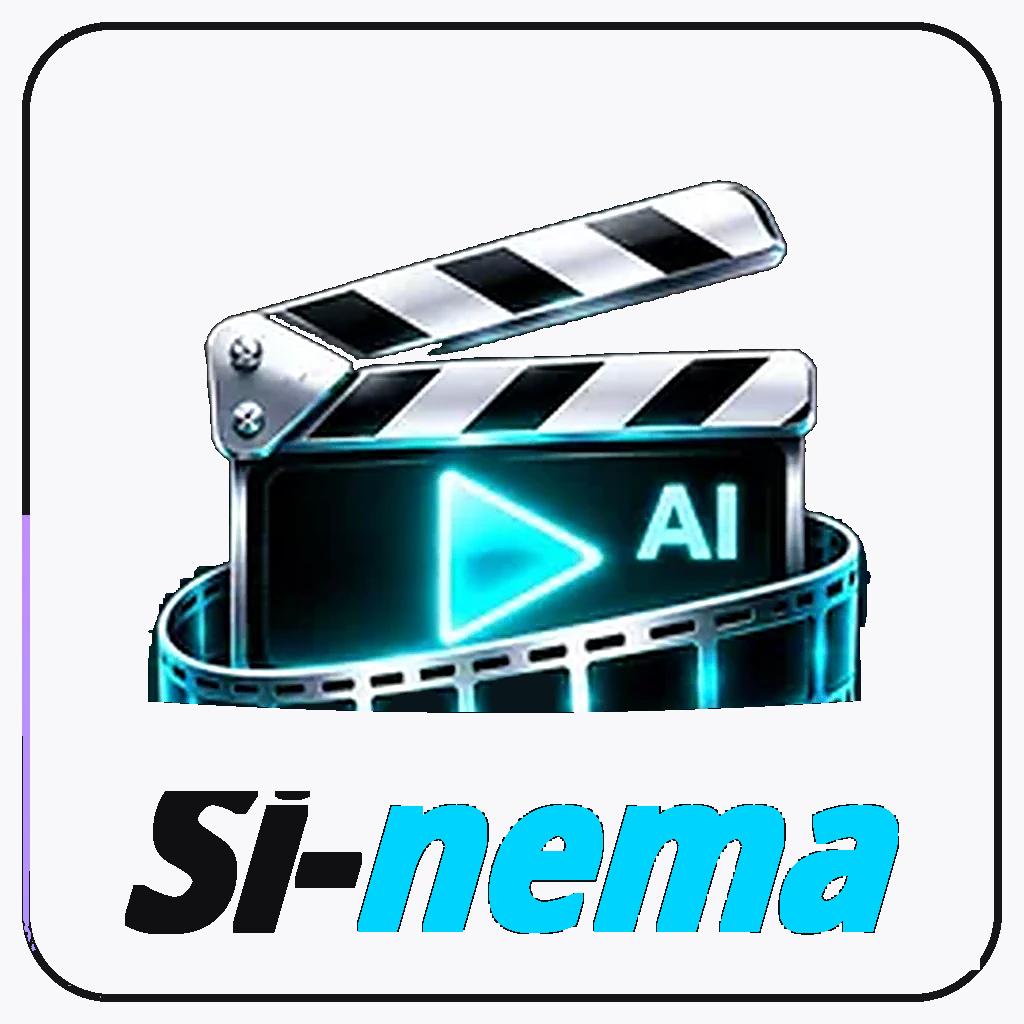
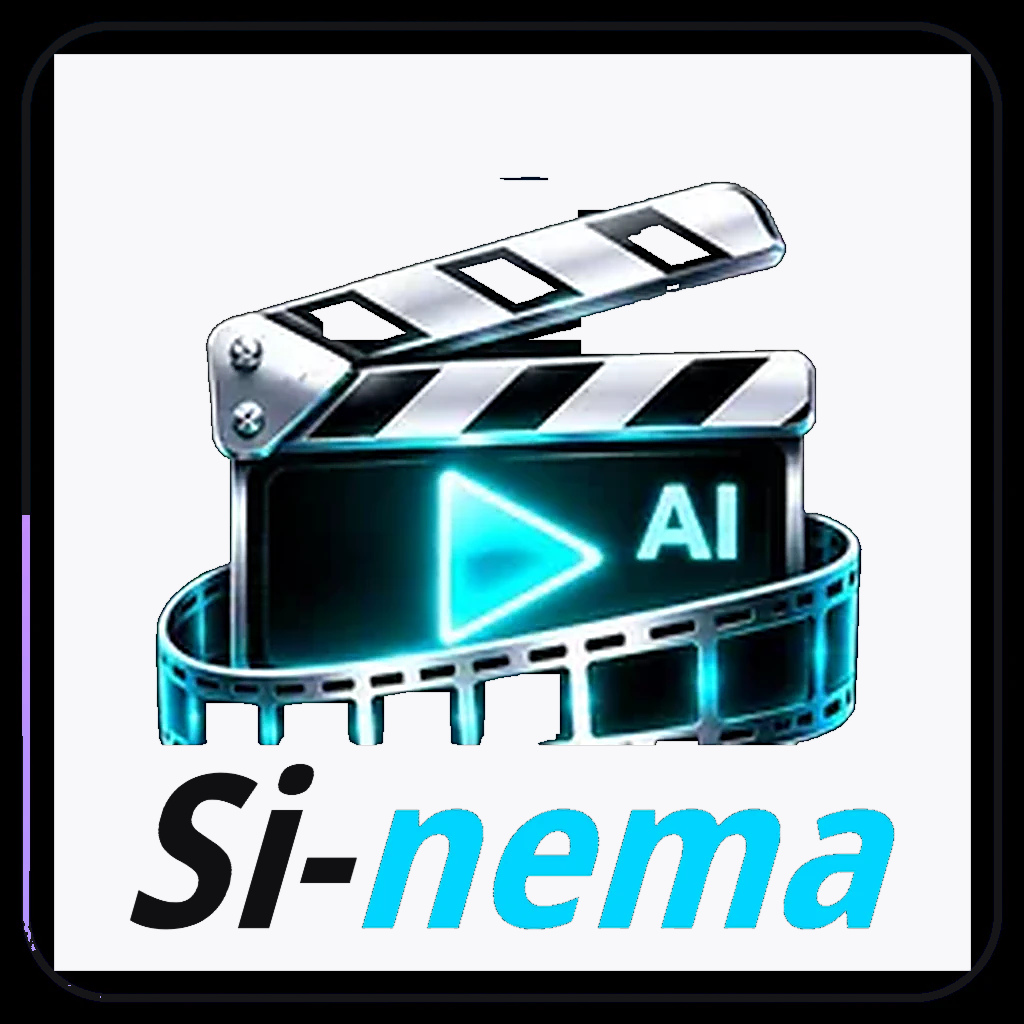
Re-render White/Black Si-nema from the official mark
Keep official clapper pixels on a white field and matte the official
Si- letters to ink so the italic S stays complete. Tiffany nema is
unchanged. Drop invert, dilation, and font redraw that chewed the S
and muddied play/AI/film.

diff --git a/icon-review-wb-tiffany-draft.html b/icon-review-wb-tiffany-draft.html
@@ -20,7 +20,7 @@
 </head>
 <body>
   <h1>White/Black draft — Tiffany on gl / nema</h1>
-  <p>Live Search lost Tiffany because White/Black inverted the whole tile (teal became grey/black). This draft keeps the FloqCAST / BOT DEE split: ink + Tiffany. Si-nema: complete italic <b>S</b> (solid fill) and a tightened filmstrip (hanging sprocket tongues clipped, interiors navy — no white bite).</p>
+  <p>White/Black Si-nema re-rendered from the official mark: clapper objects (play, AI, sticks, film) keep official pixels on a white field; <b>Si-</b> is the official letter matte in black; <b>nema</b> stays Tiffany. No invert, no chopped S.</p>
 
   <h2>Search row (White/Black)</h2>
   <div class="search-icon-row">
@@ -40,7 +40,7 @@
   <h2>Si-nema — live vs draft</h2>
   <div class="row">
     <div class="pair"><span>Live (soft invert)</span><img src="./images/review/sinema-whiteblack-before.jpg" alt="Si-nema White/Black before"/></div>
-    <div class="pair"><span>Draft (full S + tight film)</span><img src="./images/chrome/sinema-whiteblack.jpg" alt="Si-nema White/Black draft"/></div>
+    <div class="pair"><span>Draft (re-render)</span><img src="./images/chrome/sinema-whiteblack.jpg" alt="Si-nema White/Black draft"/></div>
   </div>
 
   <h2>Si-nema draft at share-sheet size</h2>

diff --git a/scripts/build-sinema-chrome-icons.py b/scripts/build-sinema-chrome-icons.py
@@ -18,7 +18,6 @@ ROOT = Path(__file__).resolve().parents[1]
 OUT = ROOT / "images/chrome"
 SOURCE = ROOT / "images/chrome/official/si-nema-blacktiffany.webp"
 S = 1024
-TIFFANY = np.array([0, 212, 254], dtype=np.float32)
 
 
 def load_official() -> np.ndarray:
@@ -84,13 +83,10 @@ def save_jpg(arr: np.ndarray, path: Path) -> None:
     print(f"  wrote {path.name}")
 
 
-def morph(mask: np.ndarray, *, open_k: int = 0, close_k: int = 0) -> np.ndarray:
-    img = Image.fromarray((mask.astype(np.uint8) * 255), "L")
-    if open_k:
-        img = img.filter(ImageFilter.MinFilter(open_k)).filter(ImageFilter.MaxFilter(open_k))
-    if close_k:
-        img = img.filter(ImageFilter.MaxFilter(close_k)).filter(ImageFilter.MinFilter(close_k))
-    return np.array(img) > 127
+INK = np.array([16, 16, 18], dtype=np.float32)
+FIELD_RGB = np.array([248, 248, 250], dtype=np.float32)
+# Official wordmark lives below the film wrap (Si- top ≈ y 764).
+TYPE_Y = 756
 
 
 def dilate(mask: np.ndarray, k: int = 5) -> np.ndarray:
@@ -103,21 +99,24 @@ def dilate(mask: np.ndarray, k: int = 5) -> np.ndarray:
     )
 
 
-def connected_border_field(black: np.ndarray) -> np.ndarray:
-    """Outer black around the clapper — never seed inside the hanging filmstrip."""
+def morph_close(mask: np.ndarray, k: int) -> np.ndarray:
+    """Seal sprocket gaps without fattening the outer clapper silhouette."""
+    k = max(3, k | 1)
+    im = Image.fromarray((mask.astype(np.uint8) * 255), "L")
+    im = im.filter(ImageFilter.MaxFilter(k)).filter(ImageFilter.MinFilter(k))
+    return np.array(im) > 127
+
+
+def flood_outer_field(wall: np.ndarray) -> np.ndarray:
+    """Flood the white field from inside the rim. `wall` is the sealed clapper."""
     canvas = np.zeros((S, S, 3), dtype=np.uint8)
-    canvas[black] = (255, 255, 255)
+    canvas[~wall] = (255, 255, 255)
     img = Image.fromarray(canvas, "RGB")
     seeds = []
-    # Above the clapper.
-    for x in range(80, S - 80, 16):
-        seeds.append((x, 88))
-        seeds.append((x, 758))  # gap between filmstrip and wordmark
-        seeds.append((x, 980))
-    # Sides — stop above the filmstrip (film starts ~y 600).
-    for y in range(88, 560, 16):
-        seeds.append((80, y))
-        seeds.append((S - 80, y))
+    for x in range(64, S - 64, 8):
+        seeds.extend(((x, 64), (x, 748)))
+    for y in range(64, 750, 8):
+        seeds.extend(((64, y), (S - 64, y)))
     for pt in seeds:
         if img.getpixel(pt)[0] > 200:
             ImageDraw.floodfill(img, pt, (255, 0, 0), thresh=8)
@@ -125,127 +124,76 @@ def connected_border_field(black: np.ndarray) -> np.ndarray:
     return (out[..., 0] > 200) & (out[..., 1] < 40)
 
 
-def grow_field_into_glow(
-    field: np.ndarray, lum: np.ndarray, protect: np.ndarray
-) -> np.ndarray:
-    """Eat only the soft halo. Do not nibble film rails or letter ink."""
-    grown = field.copy()
-    for _ in range(4):
-        dil = np.array(
-            Image.fromarray((grown.astype(np.uint8) * 255), "L").filter(ImageFilter.MaxFilter(3))
-        ) > 127
-        extra = dil & ~grown & ~protect & (lum < 36)
-        if not extra.any():
-            break
-        grown |= extra
-    return grown
-
-
-def film_bottom_cut(xx: np.ndarray) -> np.ndarray:
-    """Clip dangling sprocket cells; slightly higher at the far left/right."""
-    t = np.clip(np.abs((xx - 500.0) / 360.0), 0.0, 1.0)
-    return 712.0 * (1.0 - t * t) + 700.0 * (t * t)
-
-
-def tighten_hanging_film(clapper: np.ndarray) -> tuple[np.ndarray, np.ndarray]:
-    """Clip tongues; fill punched interiors in the bottom sprocket band only."""
-    yy = np.arange(S, dtype=np.float32)[:, None]
-    xx = np.arange(S, dtype=np.float32)[None, :]
-    y_cut = film_bottom_cut(xx)
-    film_band = (yy >= 640) & (yy < 790)
-    kept = np.where(film_band, clapper & (yy <= y_cut), clapper)
-    holes = np.zeros_like(clapper)
-    for x in range(110, 930):
-        if not kept[640:760, x].any():
-            continue
-        yc = int(round(float(y_cut[0, x])))
-        band = slice(yc - 38, yc + 1)
-        holes[band, x] = ~kept[band, x]
-        kept[band, x] = True
-    return kept, holes
-
-
-def keep_connected_to(mask: np.ndarray, seed: tuple[int, int]) -> np.ndarray:
-    """Drop isolated glow islands; keep the clapper + filmstrip."""
-    canvas = np.zeros((S, S, 3), dtype=np.uint8)
-    canvas[mask] = (255, 255, 255)
-    img = Image.fromarray(canvas, "RGB")
-    if img.getpixel(seed)[0] < 200:
-        return mask
-    ImageDraw.floodfill(img, seed, (255, 0, 0), thresh=8)
-    out = np.array(img)
-    return (out[..., 0] > 200) & (out[..., 1] < 40)
-
-
-def paint_solid_letters(
-    out: np.ndarray,
-    src: np.ndarray,
-    word: np.ndarray,
-    field_rgb: np.ndarray,
-    ink: np.ndarray,
-) -> np.ndarray:
-    """Solid **Si-** ink + Tiffany **nema**. Dilate cores so Search-size S keeps its bowl."""
-    lum = src.max(axis=-1)
-    cyan = is_cyan(src)
-    white_core = word & (lum > 80) & ~cyan
-    cyan_core = word & cyan
-    # 11×11 dilate (~5 px) keeps the italic S bowl at Search / share-sheet size.
-    si = dilate(white_core, 11) & word
-    nema = dilate(cyan_core, 9) & word
-    si &= ~nema
-    out[si] = ink
-    out[nema] = TIFFANY
-    return out
-
-
 def build_whiteblack(src: np.ndarray, rim_src: Path | None = None) -> np.ndarray:
-    """White field, black **Si-**, Tiffany **nema**, sharp clapper (no glow halo)."""
-    field_rgb = np.array([248, 248, 250], dtype=np.float32)
-    ink = np.array([16, 16, 18], dtype=np.float32)
+    """White/Black Si-nema from the official mark — not an invert, not a font redraw.
+
+    Clapper (play, AI, sticks, screws, film) stays official RGB on a white
+    field. **Si-** is the official letter matte, recolored to ink; **nema**
+    keeps official Tiffany. Dilating/redrawing letters is what chopped the S.
+    """
+    del rim_src
     yy = np.arange(S)[:, None]
     xx = np.arange(S)[None, :]
     rim = (yy < 54) | (yy > S - 54) | (xx < 54) | (xx > S - 54)
-    word = (yy > 790) & (yy < S - 54) & (xx > 70) & (xx < 980)
-    film = (yy >= 560) & (yy < 790) & (xx > 90) & (xx < 960)
-
     lum = src.max(axis=-1)
-    black = is_near_black(src, 34)
-    field = connected_border_field(black)
-    # Never grow into the filmstrip — that ate the hanging bottom rail.
-    field = grow_field_into_glow(field, lum, word | film)
-    clapper = ~field & (yy < 790) & ~rim
-    clapper = morph(clapper, open_k=0, close_k=3)
-    clapper = keep_connected_to(clapper, (512, 470))
-    # Re-attach hanging film pixels the flood may still have dropped.
-    # Closed silhouette so sprocket interiors stay official-dark, not punched white.
+    ch = chroma(src)
     cyan = is_cyan(src)
-    film_sil = film & ~rim & ((lum > 32) | cyan)
-    film_sil = morph(film_sil, open_k=0, close_k=11)
-    clapper |= film_sil
-    clapper, holes = tighten_hanging_film(clapper)
+    graphic = np.zeros((S, S), dtype=bool)
+    graphic[:TYPE_Y, :] = True
 
-    out = np.broadcast_to(field_rgb, src.shape).copy()
-    sharp = np.array(
-        Image.fromarray(np.clip(src, 0, 255).astype(np.uint8), "RGB").filter(
-            ImageFilter.UnsharpMask(radius=1.4, percent=140, threshold=2)
-        ),
-        dtype=np.float32,
+    # Metal + cyan only — skip the soft black glow so it floods to white.
+    core = (cyan | (lum > 88) | ((ch > 45) & (lum > 70))) & graphic
+    wall = morph_close(core, 37) | rim | ~graphic
+    field = flood_outer_field(wall)
+    # Enclosed teal void above the open clap lid (flood cannot enter).
+    near_metal = dilate((lum > 100) | cyan, 15)
+    field |= graphic & (yy < 340) & (lum < 78) & ~near_metal & ~rim
+    protect = cyan | ((lum > 100) & graphic) | rim
+    field = (field | ((~rim) & ~graphic)) & ~protect
+
+    fa = (
+        np.array(
+            Image.fromarray((field.astype(np.uint8) * 255), "L").filter(
+                ImageFilter.GaussianBlur(0.5)
+            ),
+            dtype=np.float32,
+        )
+        / 255.0
     )
-    out[clapper] = sharp[clapper]
-    # Punched sprocket interiors → navy so WB doesn't show a white bite.
-    if holes.any():
-        out[holes] = np.array([8, 22, 28], dtype=np.float32)
+    fa[rim] = 0.0
+    out = src * (1.0 - fa[..., None]) + FIELD_RGB * fa[..., None]
+    out[cyan] = src[cyan]
+    metal = graphic & (lum > 108)
+    out[metal] = src[metal]
 
-    sat_rim = rim & (chroma(src) > 38) & (lum > 40)
+    sat_rim = rim & (ch > 38) & (lum > 40)
     out[sat_rim] = np.array([22, 22, 24], dtype=np.float32)
     mag = is_magenta(src) & rim
     if mag.any():
         out[mag] = src[mag]
 
-    out = paint_solid_letters(out, src, word, field_rgb, ink)
-    stray = (yy > 900) & (xx > 900) & is_cyan(out)
-    if stray.any():
-        out[stray] = field_rgb
+    # Official **Si-** coverage (white-on-black) → ink on the white field.
+    band = ~graphic & ~rim
+    gray = ch < 55
+    si_cov = np.clip((lum - 20) / 185.0, 0, 1) * band * gray * ~cyan
+    si_cov = (
+        np.array(
+            Image.fromarray((si_cov * 255).astype(np.uint8), "L").filter(
+                ImageFilter.GaussianBlur(0.3)
+            ),
+            dtype=np.float32,
+        )
+        / 255.0
+    )
+    out = out * (1.0 - si_cov[..., None]) + INK * si_cov[..., None]
+
+    img = Image.fromarray(np.clip(out, 0, 255).astype(np.uint8))
+    sharp = np.array(
+        img.filter(ImageFilter.UnsharpMask(radius=1.25, percent=130, threshold=2)),
+        dtype=np.float32,
+    )
+    obj = graphic & ~field & ~rim
+    out[obj] = sharp[obj]
     return out
 
 
